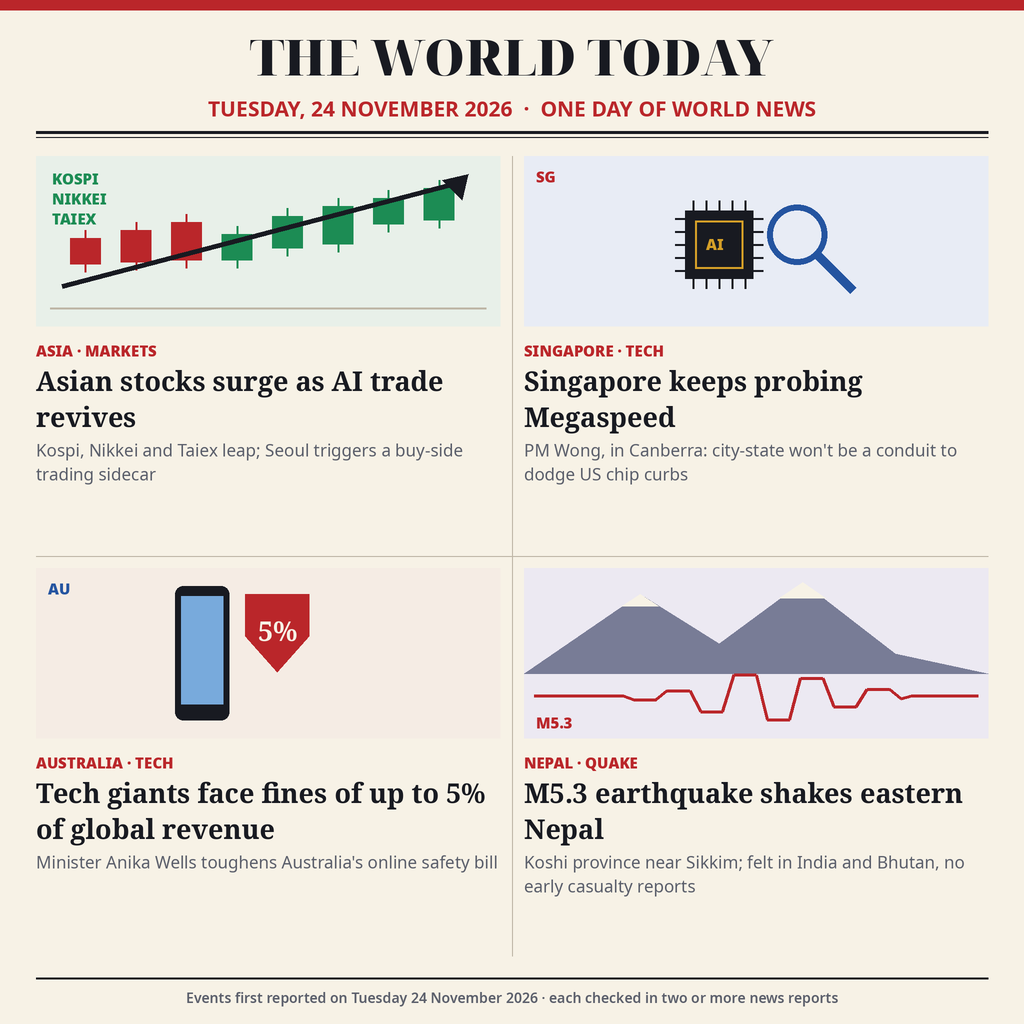
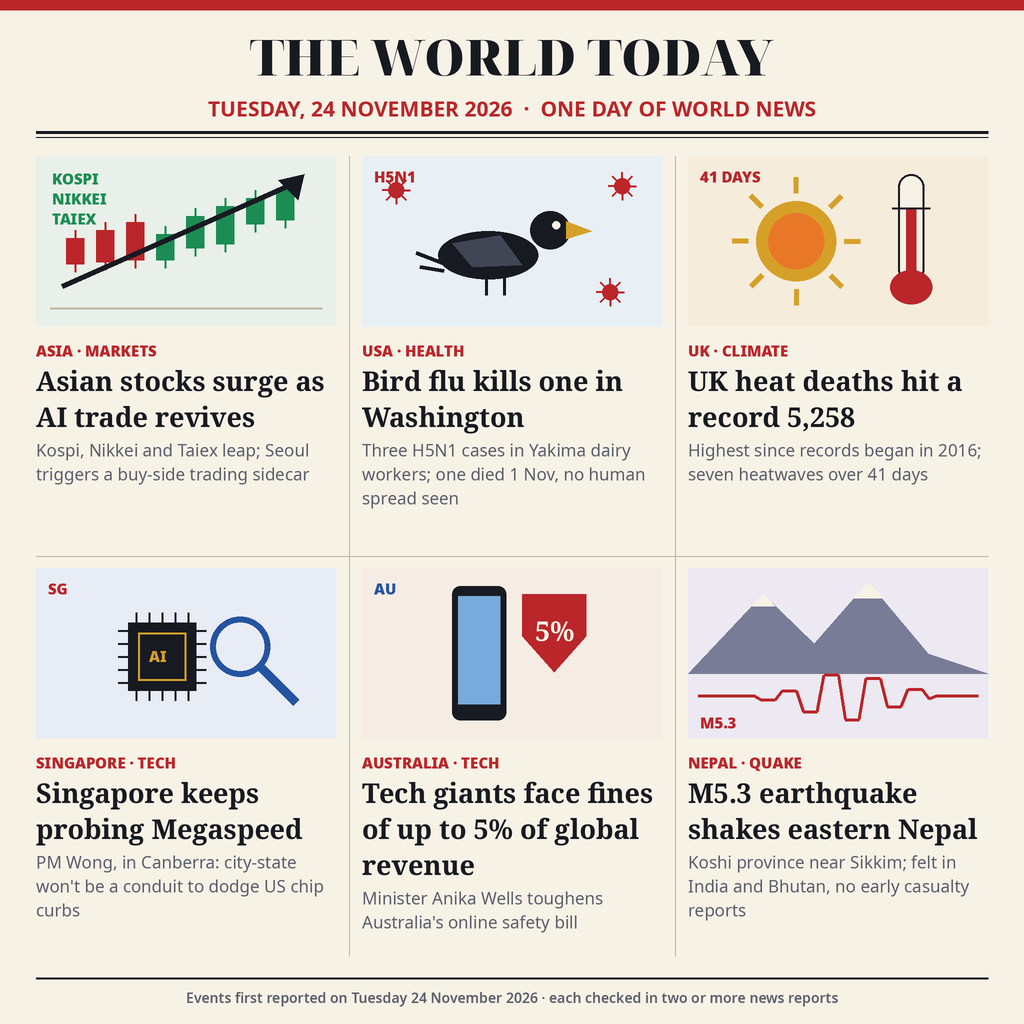
news-image-20261124 v2: 3x2 front page, add US bird flu + UK record heat deaths
Keep the four Asia-Pacific stories; add two stories first reported
later on 24 Nov 2026, each checked in two or more outlets:
- USA bird flu: WHO told of three H5N1 cases in Yakima dairy
  workers, one death (Reuters, Sowetan/WHO)
- UK heat deaths: 5,258 in summer 2026, highest since records
  began in 2016 (Reuters, UKHSA)
Layout 2x2 -> 3x2; render.py still deterministic, entry.png 1024x1024, ~290 KB.

diff --git a/render.py b/render.py
@@ -2,6 +2,8 @@
 """Render entry.png for make.fun news-image-20261124: the world's news of Tuesday 24 November 2026.
 
 Drawn with Pillow primitives only (no downloaded art). Rendered at 2x and downsampled for clean edges.
+Six stories in a 3 x 2 front page: the four Asia-Pacific items from the morning entry plus
+two verified later in the day — US bird flu (WHO/Reuters) and the UK's record heat deaths (UKHSA/Reuters).
 Run: python3 render.py  -> writes entry.png beside this file (deterministic, no timestamps).
 """
 from pathlib import Path
@@ -123,11 +125,57 @@ def art_quake(d, x, y, w, h):
     d.text(P(x + 12, y + h - 26), "M5.3", font=F_TAG, fill=RED)
 
 
+def art_birdflu(d, x, y, w, h):
+    """US bird flu: a bird over a farm sky, with H5N1 virus dots."""
+    d.rectangle(P(x, y, x + w, y + h), fill=(232, 240, 245))
+    cx, cy = x + w * 0.44, y + h * 0.56
+    d.ellipse(P(cx - 56, cy - 20, cx + 44, cy + 28), fill=INK)
+    d.ellipse(P(cx + 36, cy - 40, cx + 76, cy - 2), fill=INK)
+    d.polygon(P(cx + 72, cy - 30, cx + 98, cy - 20, cx + 72, cy - 12), fill=GOLD)
+    d.ellipse(P(cx + 58, cy - 30, cx + 66, cy - 22), fill=PAPER)
+    d.polygon(P(cx - 42, cy - 8, cx + 6, cy - 16, cx + 28, cy + 14, cx - 22, cy + 16), fill=(64, 70, 84))
+    d.line(P(cx - 52, cy + 12, cx - 78, cy + 2), fill=INK, width=4 * S)
+    d.line(P(cx - 50, cy + 20, cx - 74, cy + 16), fill=INK, width=4 * S)
+    d.line(P(cx - 8, cy + 26, cx - 8, cy + 44), fill=INK, width=3 * S)
+    d.line(P(cx + 10, cy + 26, cx + 10, cy + 44), fill=INK, width=3 * S)
+    for vx, vy in [(x + 34, y + 34), (x + w - 40, y + 30), (x + w - 52, y + h - 34)]:
+        for k in range(8):
+            import math
+            a = k * math.pi / 4
+            d.line(P(vx + 8 * math.cos(a), vy + 8 * math.sin(a),
+                     vx + 14 * math.cos(a), vy + 14 * math.sin(a)), fill=RED, width=2 * S)
+        d.ellipse(P(vx - 8, vy - 8, vx + 8, vy + 8), fill=RED)
+    d.text(P(x + 12, y + 10), "H5N1", font=F_TAG, fill=RED)
+
+
+def art_heat(d, x, y, w, h):
+    """UK record heat deaths: a blazing sun and a thermometer."""
+    d.rectangle(P(x, y, x + w, y + h), fill=(245, 236, 220))
+    cx, cy, r = x + w * 0.36, y + h * 0.50, 40
+    import math
+    for k in range(8):
+        a = k * math.pi / 4
+        d.line(P(cx + (r + 8) * math.cos(a), cy + (r + 8) * math.sin(a),
+                 cx + (r + 24) * math.cos(a), cy + (r + 24) * math.sin(a)), fill=GOLD, width=5 * S)
+    d.ellipse(P(cx - r, cy - r, cx + r, cy + r), fill=GOLD)
+    d.ellipse(P(cx - r + 12, cy - r + 12, cx + r - 12, cy + r - 12), fill=(232, 120, 40))
+    tx = x + w * 0.70
+    d.rounded_rectangle(P(tx, y + 18, tx + 26, y + h - 44), radius=13 * S, fill=PAPER, outline=INK, width=2 * S)
+    d.ellipse(P(tx - 8, y + h - 56, tx + 34, y + h - 22), fill=RED)
+    d.rectangle(P(tx + 8, y + 52, tx + 18, y + h - 40), fill=RED)
+    d.line(P(tx - 6, y + 52, tx + 32, y + 52), fill=INK, width=2 * S)
+    d.text(P(x + 12, y + 10), "41 DAYS", font=F_TAG, fill=RED)
+
+
 # ---------------------------------------------------------------- the day's stories
 # Each was first reported on Tuesday 24 November 2026 and checked in at least two outlets.
 STORIES = [
     ("ASIA · MARKETS", "Asian stocks surge as AI trade revives",
      "Kospi, Nikkei and Taiex leap; Seoul triggers a buy-side trading sidecar", art_markets),
+    ("USA · HEALTH", "Bird flu kills one in Washington",
+     "Three H5N1 cases in Yakima dairy workers; one died 1 Nov, no human spread seen", art_birdflu),
+    ("UK · CLIMATE", "UK heat deaths hit a record 5,258",
+     "Highest since records began in 2016; seven heatwaves over 41 days", art_heat),
     ("SINGAPORE · TECH", "Singapore keeps probing Megaspeed",
      "PM Wong, in Canberra: city-state won't be a conduit to dodge US chip curbs", art_chips),
     ("AUSTRALIA · TECH", "Tech giants face fines of up to 5% of global revenue",
@@ -150,13 +198,13 @@ def render(path):
     d.text(P((W - dw) / 2, 94), date, font=F_DATE, fill=RED)
     d.line(P(36, 132, W - 36, 132), fill=INK, width=3 * S)
     d.line(P(36, 137, W - 36, 137), fill=INK, width=1 * S)
-    # 2 x 2 grid of stories
-    gx, gy, gap = 36, 156, 24
-    cw = (W - 2 * gx - gap) / 2
+    # 3 x 2 grid of stories
+    gx, gy, gapx, gapy = 36, 156, 26, 24
+    cw = 300
     ch = 388
     for i, (tag, head, sub, art) in enumerate(STORIES):
-        cx = gx + (i % 2) * (cw + gap)
-        cy = gy + (i // 2) * (ch + gap)
+        cx = gx + (i % 3) * (cw + gapx)
+        cy = gy + (i // 3) * (ch + gapy)
         art(d, cx, cy, cw, 170)
         d.text(P(cx, cy + 184), tag, font=F_TAG, fill=RED)
         ty = cy + 206
@@ -167,8 +215,9 @@ def render(path):
         for line in wrap(d, sub, F_SUB, cw):
             d.text(P(cx, ty), line, font=F_SUB, fill=MUTED)
             ty += 24
-    d.line(P(W / 2, gy, W / 2, gy + 2 * ch + gap), fill=RULE, width=1 * S)
-    d.line(P(gx, gy + ch + gap / 2, W - gx, gy + ch + gap / 2), fill=RULE, width=1 * S)
+    d.line(P(gx + cw + gapx / 2, gy, gx + cw + gapx / 2, gy + 2 * ch + gapy), fill=RULE, width=1 * S)
+    d.line(P(gx + 2 * cw + 3 * gapx / 2, gy, gx + 2 * cw + 3 * gapx / 2, gy + 2 * ch + gapy), fill=RULE, width=1 * S)
+    d.line(P(gx, gy + ch + gapy / 2, W - gx, gy + ch + gapy / 2), fill=RULE, width=1 * S)
     # footer
     d.line(P(36, H - 46, W - 36, H - 46), fill=INK, width=2 * S)
     foot = "Events first reported on Tuesday 24 November 2026 · each checked in two or more news reports"

diff --git a/README.md b/README.md
@@ -4,7 +4,7 @@
 [![rank](https://make.fun/badge/news-image-20261124/Sid4436/news-image-20261124/rank.svg)](https://make.fun/bounty/news-image-20261124/leaderboard?utm_source=github&utm_medium=readme&utm_campaign=news-image-20261124)
 [![reward](https://make.fun/badge/news-image-20261124/Sid4436/news-image-20261124/reward.svg)](https://make.fun/bounty/news-image-20261124?utm_source=github&utm_medium=readme&utm_campaign=news-image-20261124)
 
-One front page for Tuesday 24 November 2026: Asian stocks rebound as the AI trade revives, Singapore presses on with its Megaspeed chip probe, Australia toughens fines in its online safety bill, and an M5.3 quake shakes eastern Nepal. Drawn with Pillow by `render.py`; `main.ts` copies the image to the output folder.
+One front page for Tuesday 24 November 2026: Asian stocks rebound as the AI trade revives, Singapore presses on with its Megaspeed chip probe, Australia toughens fines in its online safety bill, an M5.3 quake shakes eastern Nepal — plus two stories verified later in the day: bird flu kills one in Washington state (three H5N1 cases, WHO) and the UK records 5,258 heat-associated deaths, the most since records began in 2016. Drawn with Pillow by `render.py`; `main.ts` copies the image to the output folder.
 
 ## Run it
 
